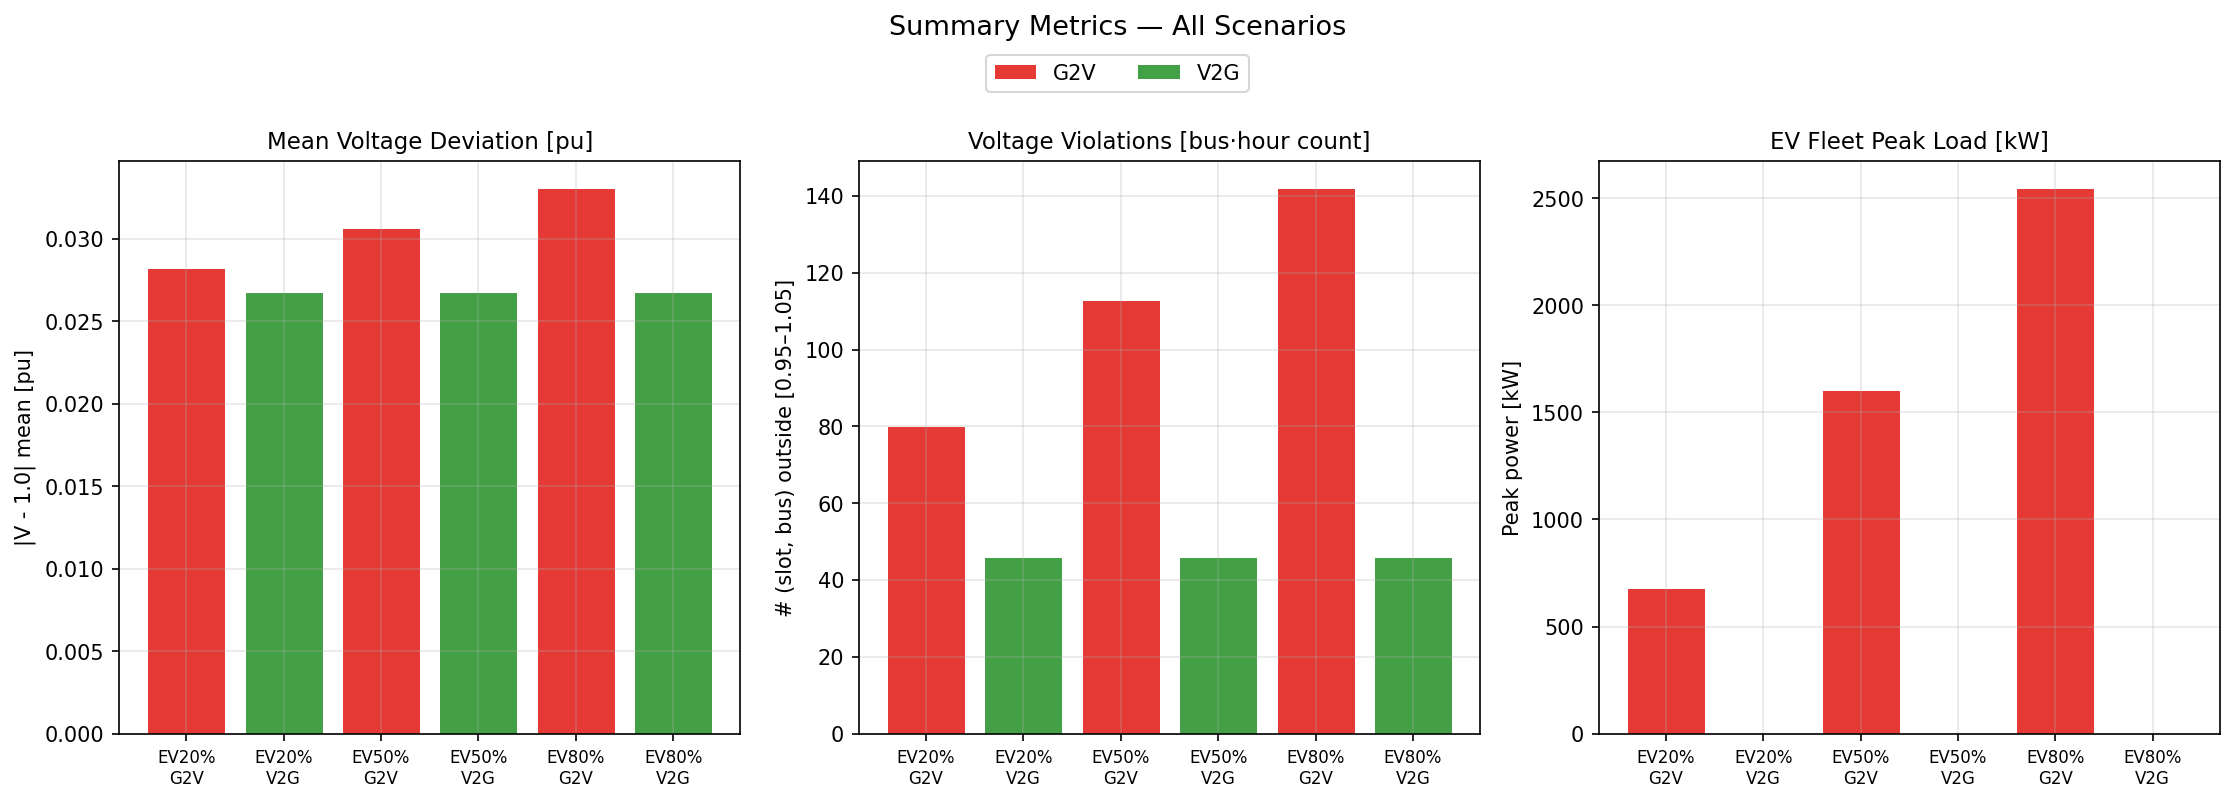
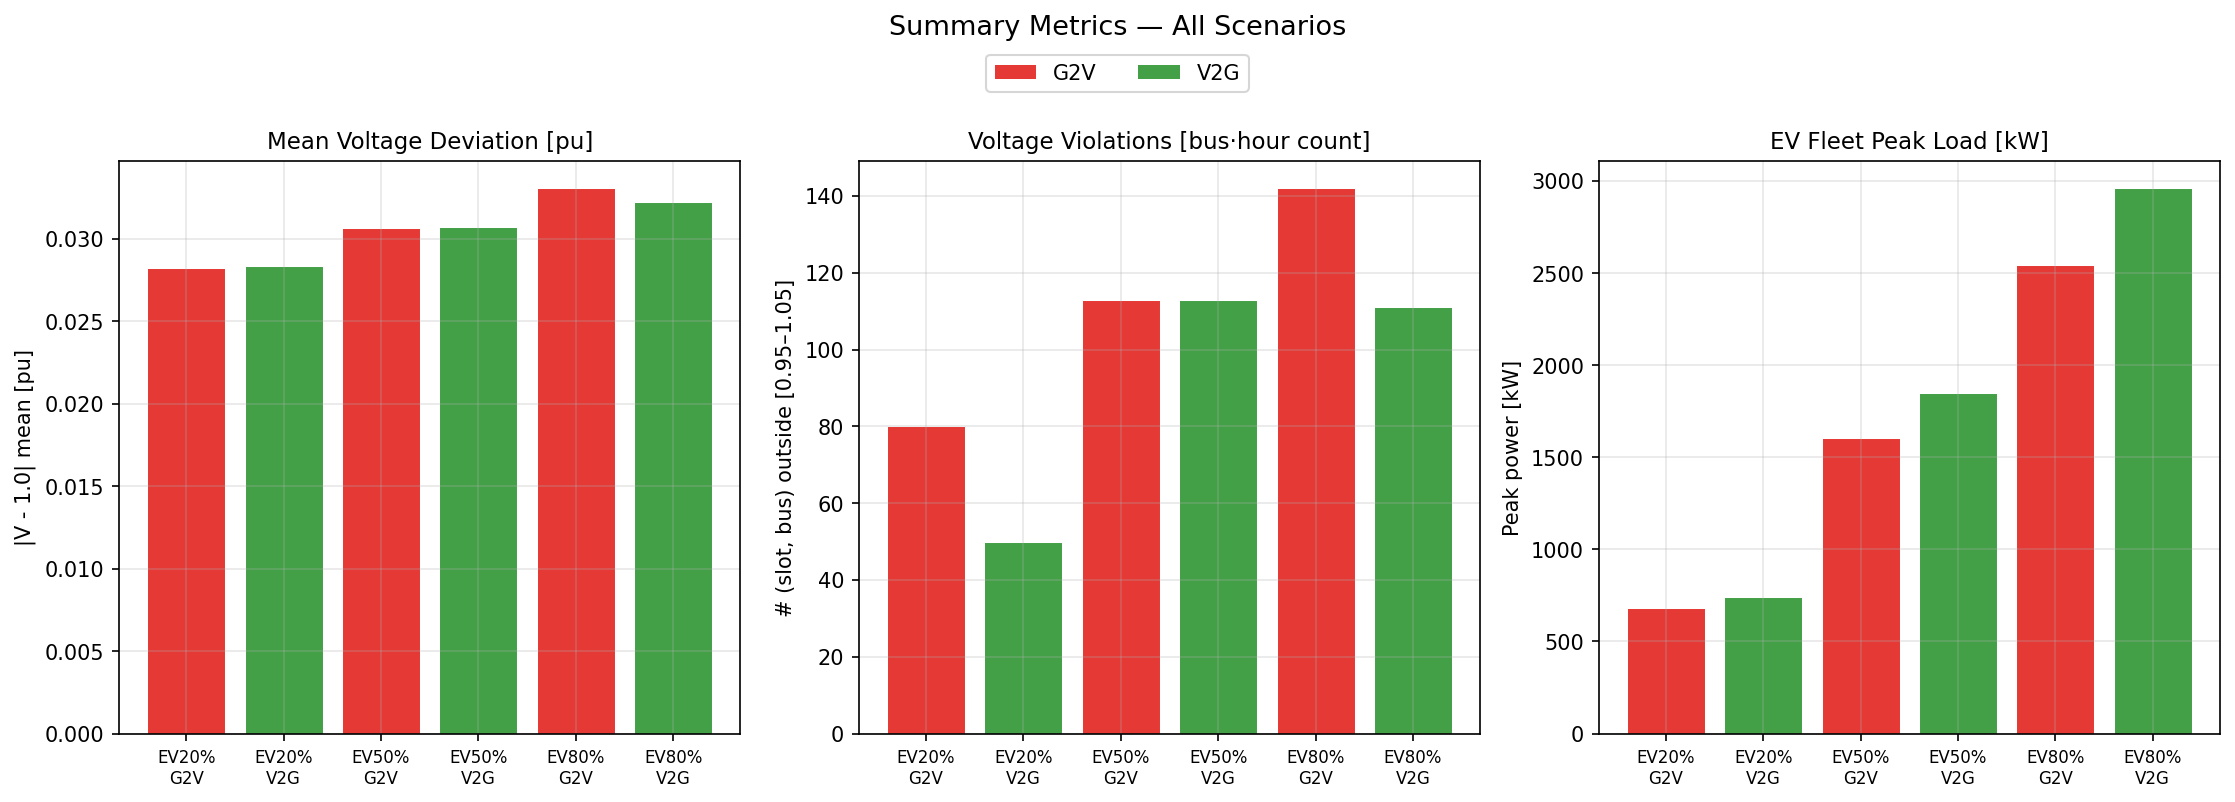
Completed main and plot generation

diff --git a/main.py b/main.py
@@ -79,40 +79,50 @@ def run_scenario(penetration: float,
     ])
     pv_surplus = get_pv_surplus(pv_sim, base_load_sim)
 
+    def _run_power_flow(ev_profile_kw: np.ndarray) -> tuple:
+        """Run PF across 24 slots; return voltages, loading, ev_kw arrays."""
+        net = build_network(pv_enabled=PV_ENABLED)
+
+        voltages_24h = np.zeros((24, 33))
+        loading_24h  = np.zeros((24, 37))
+        ev_kw_24h    = np.zeros(24)
+
+        for slot in range(24):
+            h_abs = (SIM_START_H + slot) % 24
+
+            base_mw   = _base_load_per_bus(h_abs)              # (32,) MW
+            ev_bus_kw = distribute_ev_load(ev_profile_kw[slot])
+            pv_bus_kw = distribute_pv_output(pv_sim[slot])
+
+            try:
+                update_network(net, base_mw, ev_bus_kw, pv_bus_kw,
+                               pv_enabled=PV_ENABLED)
+                voltages_24h[slot] = get_bus_voltages(net)
+                loading_24h[slot]  = get_line_loading(net)
+            except pp.powerflow.LoadflowNotConverged:
+                print(f"  [WARN] Power flow did not converge at slot {slot} "
+                      f"({h_abs:02d}:00) — filling with NaN")
+                voltages_24h[slot] = np.nan
+                loading_24h[slot]  = np.nan
+
+            ev_kw_24h[slot] = ev_profile_kw[slot]
+
+        return voltages_24h, loading_24h, ev_kw_24h
+
     if strategy == 'G2V':
-        ev_total_kw = simulate_g2v(fleet)          # shape (24,)
+        ev_total_kw = simulate_g2v(fleet)
+        voltages_24h, loading_24h, ev_kw_24h = _run_power_flow(ev_total_kw)
     else:
-        # V2G needs a voltage profile as input — use a flat 1.0 pu for the
-        # first iteration; a real implementation would iterate (see note below)
-        v_flat = np.ones(24)
-        ev_total_kw = simulate_v2g(fleet, v_flat, pv_surplus)
+        # Pass 1: run G2V to get a realistic voltage profile
+        ev_g2v_kw = simulate_g2v(fleet.copy())
+        voltages_ref, _, _ = _run_power_flow(ev_g2v_kw)
+        v_profile = np.nanmean(voltages_ref, axis=1)
+        if np.isnan(v_profile).all():
+            v_profile = np.ones(24)
 
-    # ── Run power flow for each time slot ─────────────────────────────────────
-    net = build_network(pv_enabled=PV_ENABLED)
-
-    voltages_24h = np.zeros((24, 33))      # bus voltages  [pu]
-    loading_24h  = np.zeros((24, 37))      # line loading  [%]
-    ev_kw_24h    = np.zeros(24)            # total EV power[kW]
-
-    for slot in range(24):
-        h_abs = (SIM_START_H + slot) % 24
-
-        base_mw   = _base_load_per_bus(h_abs)                    # (32,) MW
-        ev_bus_kw = distribute_ev_load(ev_total_kw[slot])        # (32,) kW
-        pv_bus_kw = distribute_pv_output(pv_sim[slot])           # (32,) kW
-
-        try:
-            update_network(net, base_mw, ev_bus_kw, pv_bus_kw,
-                           pv_enabled=PV_ENABLED)
-            voltages_24h[slot] = get_bus_voltages(net)
-            loading_24h[slot]  = get_line_loading(net)
-        except pp.powerflow.LoadflowNotConverged:
-            print(f"  [WARN] Power flow did not converge at slot {slot} "
-                  f"({h_abs:02d}:00) — filling with NaN")
-            voltages_24h[slot] = np.nan
-            loading_24h[slot]  = np.nan
-
-        ev_kw_24h[slot] = ev_total_kw[slot]
+        # Pass 2: run V2G with the measured voltage profile
+        ev_total_kw = simulate_v2g(fleet.copy(), v_profile, pv_surplus)
+        voltages_24h, loading_24h, ev_kw_24h = _run_power_flow(ev_total_kw)
 
     return {
         'penetration' : penetration,

diff --git a/ev_model.py b/ev_model.py
@@ -162,11 +162,16 @@ def simulate_v2g(fleet: pd.DataFrame, v_pu_profile: np.ndarray,
             elif v < 0.97 and soc > SOC_MIN + 0.1:
                 p = -P_DISCHARGE
                 fleet.at[i, 'soc_current'] -= P_DISCHARGE / (E_BAT * EFFICIENCY)
-            elif ps > 0 and soc < SOC_MAX:
-                p = min(P_CHARGE, ps / N_EV * 10)
-                fleet.at[i, 'soc_current'] += (p * EFFICIENCY) / E_BAT
             else:
-                p = 0
+                # Within acceptable voltage band: keep normal charging behavior
+                if soc < SOC_MAX:
+                    if ps > 0:
+                        p = min(P_CHARGE, ps / N_EV * 10)
+                    else:
+                        p = P_CHARGE
+                    fleet.at[i, 'soc_current'] += (p * EFFICIENCY) / E_BAT
+                else:
+                    p = 0
 
             fleet.at[i, 'soc_current'] = np.clip(
                 fleet.at[i, 'soc_current'], SOC_MIN, SOC_MAX
